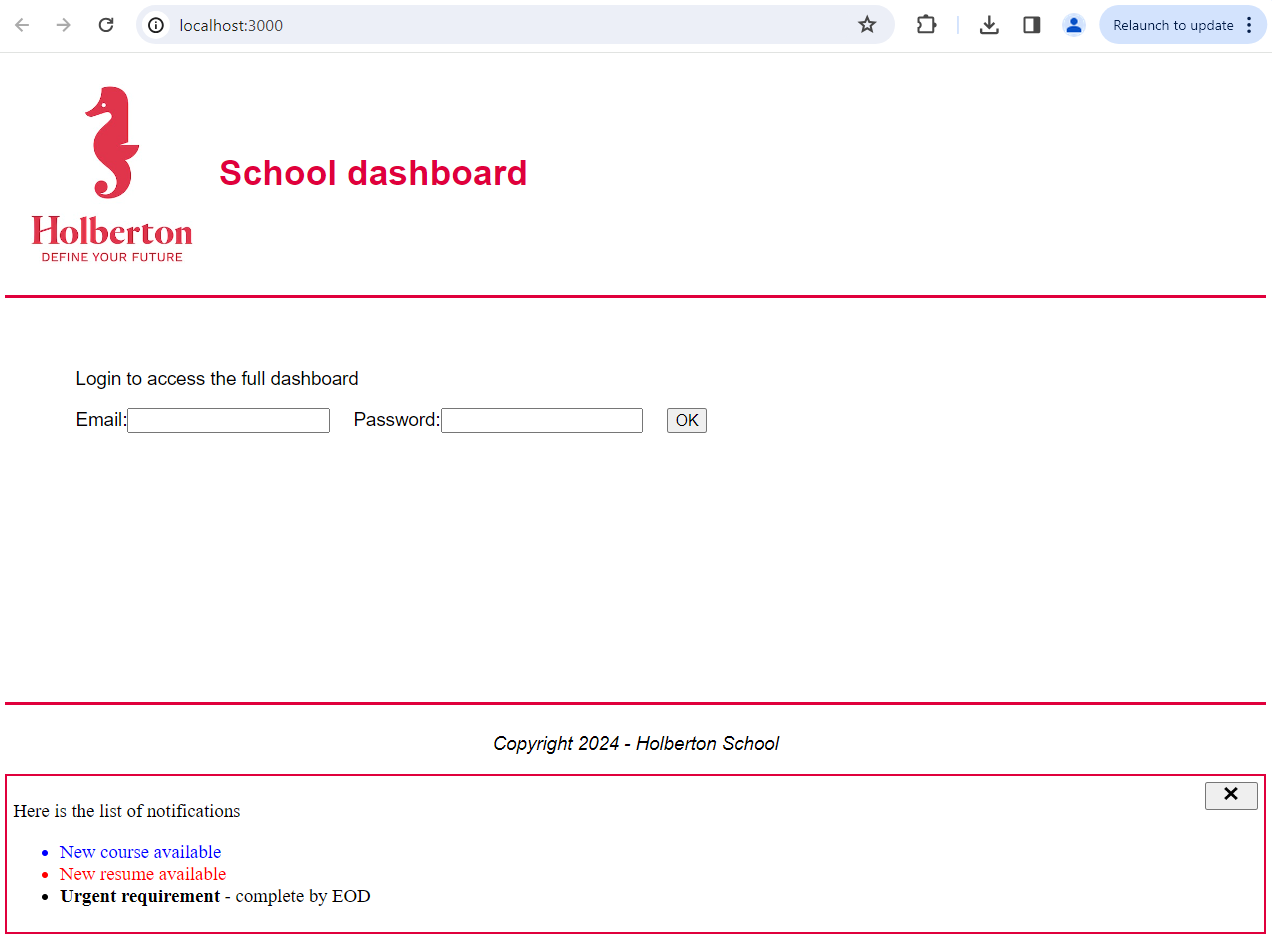
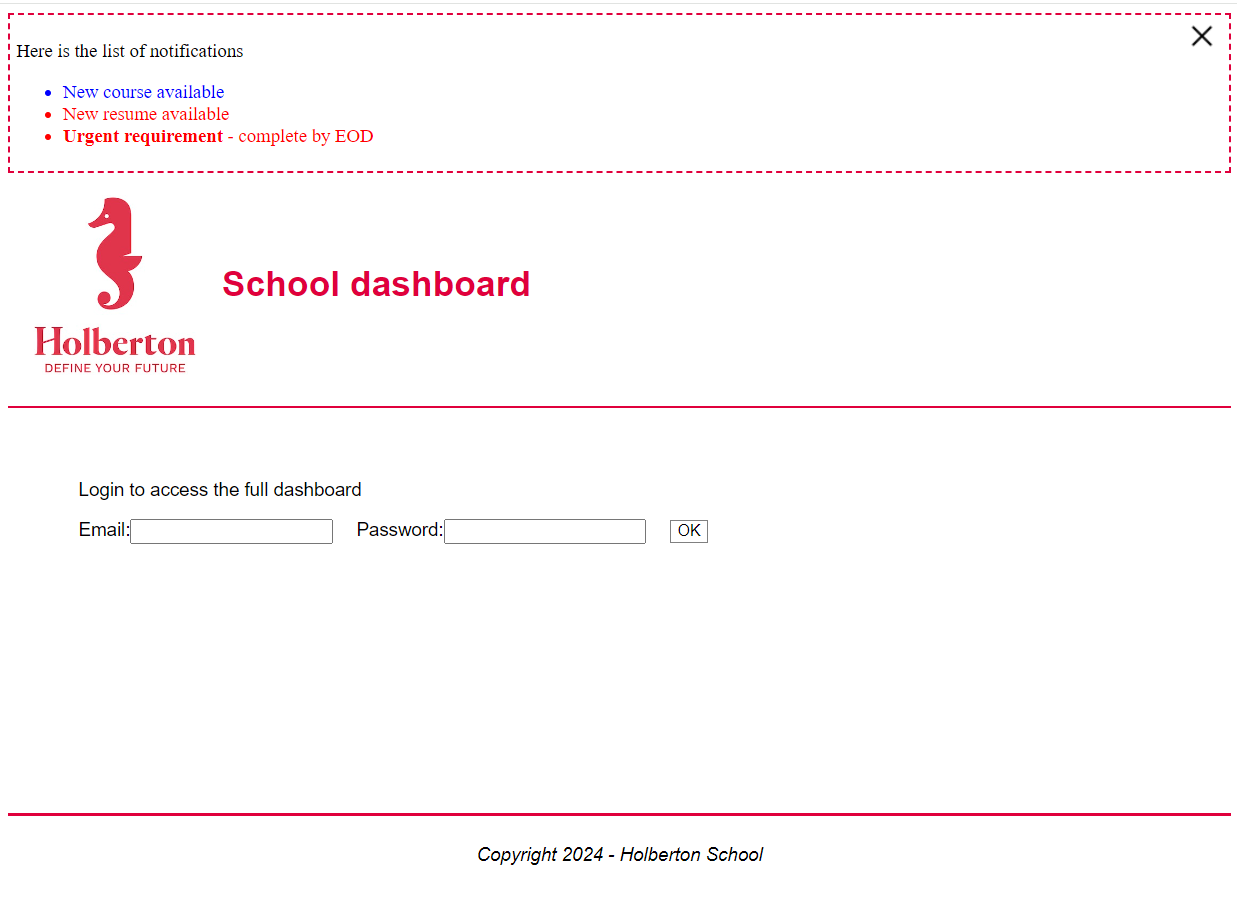
style update

diff --git a/react_intro/task_2/dashboard/src/Notifications.js b/react_intro/task_2/dashboard/src/Notifications.js
@@ -9,14 +9,14 @@ function Notifications() {
     }
     return (
         <div className="Notifications">
-            <button style={{float: 'right'}} aria-label='Close' onClick={handleClick}>
-                <img src={icon} alt='icon' style={{width: '50%', height: '50%', backgroundColor: 'transparent', border: 'none'}}></img>
+            <button aria-label='Close' onClick={handleClick} style={{float: 'right', backgroundColor: 'transparent', border: 'none'}}>
+                <img src={icon} alt='icon' style={{backgroundColor: 'transparent', border: 'none'}}></img>
             </button>
             <p>Here is the list of notifications</p>
             <ul>
                 <li data-priority="default">New course available</li>
                 <li data-priority="urgent">New resume available</li>
-                <li dangerouslySetInnerHTML={{__html: getLatestNotification()}}></li>
+                <li data-priority="urgent" dangerouslySetInnerHTML={{__html: getLatestNotification()}}></li>
             </ul>
         </div>
     );

diff --git a/react_intro/task_3/dashboard/src/Notifications.js b/react_intro/task_3/dashboard/src/Notifications.js
@@ -9,14 +9,14 @@ function Notifications() {
     }
     return (
         <div className="Notifications">
-            <button style={{float: 'right'}} aria-label='Close' onClick={handleClick}>
-                <img src={icon} alt='icon' style={{width: '50%', height: '50%', backgroundColor: 'transparent', border: 'none'}}></img>
+            <button aria-label='Close' onClick={handleClick} style={{float: 'right', backgroundColor: 'transparent', border: 'none'}}>
+                <img src={icon} alt='icon' style={{backgroundColor: 'transparent', border: 'none'}}></img>
             </button>
             <p>Here is the list of notifications</p>
             <ul>
                 <li data-priority="default">New course available</li>
                 <li data-priority="urgent">New resume available</li>
-                <li dangerouslySetInnerHTML={{__html: getLatestNotification()}}></li>
+                <li data-priority="urgent" dangerouslySetInnerHTML={{__html: getLatestNotification()}}></li>
             </ul>
         </div>
     );

diff --git a/react_intro/task_4/dashboard/src/Notifications.js b/react_intro/task_4/dashboard/src/Notifications.js
@@ -9,14 +9,14 @@ function Notifications() {
     }
     return (
         <div className="Notifications">
-            <button style={{float: 'right'}} aria-label='Close' onClick={handleClick}>
-                <img src={icon} alt='icon' style={{width: '50%', height: '50%', backgroundColor: 'transparent', border: 'none'}}></img>
+            <button aria-label='Close' onClick={handleClick} style={{float: 'right', backgroundColor: 'transparent', border: 'none'}}>
+                <img src={icon} alt='icon' style={{backgroundColor: 'transparent', border: 'none'}}></img>
             </button>
             <p>Here is the list of notifications</p>
             <ul>
                 <li data-priority="default">New course available</li>
                 <li data-priority="urgent">New resume available</li>
-                <li dangerouslySetInnerHTML={{__html: getLatestNotification()}}></li>
+                <li data-priority="urgent" dangerouslySetInnerHTML={{__html: getLatestNotification()}}></li>
             </ul>
         </div>
     );

diff --git a/react_intro/task_2/dashboard/src/index.js b/react_intro/task_2/dashboard/src/index.js
@@ -8,10 +8,10 @@ const root = ReactDOM.createRoot(document.getElementById('root'));
 root.render(
   <React.StrictMode>
     <div>
-      <App />
       <div className="root-notifications">
         <Notifications />
       </div>
+      <App />
     </div>
   </React.StrictMode>
 );

diff --git a/react_intro/task_3/dashboard/src/index.js b/react_intro/task_3/dashboard/src/index.js
@@ -6,10 +6,10 @@ import Notifications from './Notifications';
 
 ReactDOM.render(
   <React.StrictMode>
-    <App />
     <div className="root-notifications">
       <Notifications />
     </div>
+    <App />
   </React.StrictMode>,
   document.getElementById('root')
 );

diff --git a/react_intro/task_4/dashboard/src/index.js b/react_intro/task_4/dashboard/src/index.js
@@ -6,10 +6,10 @@ import Notifications from './Notifications';
 
 ReactDOM.render(
   <React.StrictMode>
-    <App />
     <div className="root-notifications">
       <Notifications />
     </div>
+    <App />
   </React.StrictMode>,
   document.getElementById('root')
 );

diff --git a/react_intro/task_2/dashboard/src/Notifications.css b/react_intro/task_2/dashboard/src/Notifications.css
@@ -1,5 +1,5 @@
 .Notifications {
-    border: 2px solid #e0003c;
+    border: 2px dashed #e0003c;
     padding: 5px;
 }
 
@@ -9,4 +9,8 @@
 
 [data-priority='urgent'] {
     color: red;
+}
+
+.Notifications img {
+    background-color: transparent;
 }

diff --git a/react_intro/task_2/dashboard/src/App.css b/react_intro/task_2/dashboard/src/App.css
@@ -49,3 +49,8 @@ hr {
 .App-body label {
   padding-right: 20px;
 }
+
+.App-body button {
+  background-color: transparent;
+  border: 0.5px solid gray;
+}

diff --git a/react_intro/task_3/dashboard/src/App.css b/react_intro/task_3/dashboard/src/App.css
@@ -49,3 +49,8 @@ hr {
 .App-body label {
   padding-right: 20px;
 }
+
+.App-body button {
+  background-color: transparent;
+  border: 0.5px solid gray;
+}

diff --git a/react_intro/task_4/dashboard/src/App.css b/react_intro/task_4/dashboard/src/App.css
@@ -49,3 +49,8 @@ hr {
 .App-body label {
   padding-right: 20px;
 }
+
+.App-body button {
+  background-color: transparent;
+  border: 0.5px solid gray;
+}

diff --git a/react_intro/task_3/dashboard/src/Notifications.css b/react_intro/task_3/dashboard/src/Notifications.css
@@ -1,5 +1,5 @@
 .Notifications {
-    border: 2px solid #e0003c;
+    border: 2px dashed #e0003c;
     padding: 5px;
 }
 

diff --git a/react_intro/task_4/dashboard/src/Notifications.css b/react_intro/task_4/dashboard/src/Notifications.css
@@ -1,5 +1,5 @@
 .Notifications {
-    border: 2px solid #e0003c;
+    border: 2px dashed #e0003c;
     padding: 5px;
 }
 
